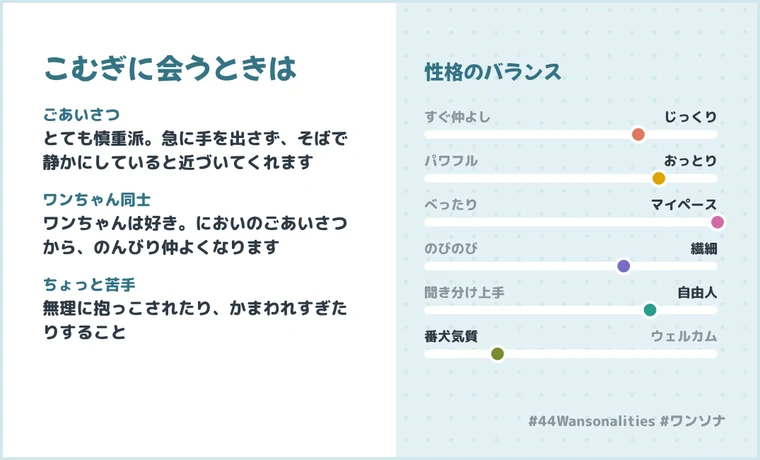
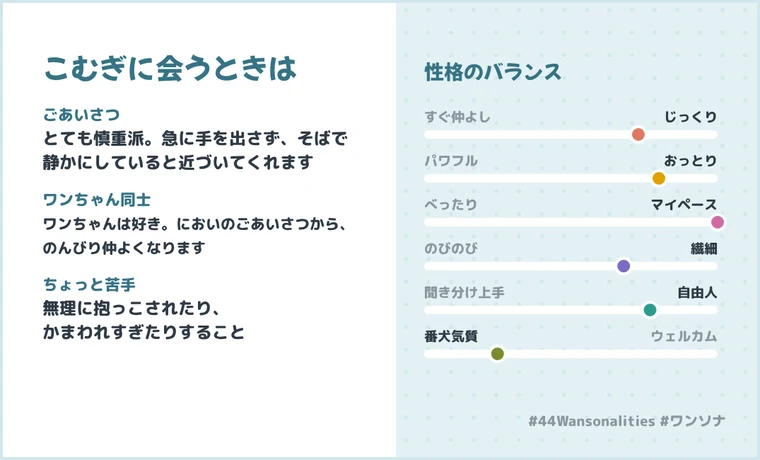
名刺・もしものときカードの画像の文を、言葉の切れ目で折り返す（入らないときは少し小さく）
Claude-Session: https://claude.ai/code/session_01VNhb2mPii8GMuwudjdkqsa

Changed region(s): [[0.0605, 0.4565, 0.4539, 0.5783], [0.0605, 0.6391, 0.4539, 0.7609]]

diff --git a/dog-shindan/index.html b/dog-shindan/index.html
@@ -3965,7 +3965,17 @@ function renderMeishi(o,url,raw){
 
 // ---------- フェス用：名刺のうら面・印刷用データ ----------
 // 名刺 91×55mm＝1075×650px（300dpi）。塗り足し3mm＝36px
-function wrapJa(ctx,t,w){var lines=[],cur="";for(var k=0;k<t.length;k++){var c=t[k];if(ctx.measureText(cur+c).width>w&&cur){if("、。」）".indexOf(c)>=0){cur+=c;continue}lines.push(cur);cur=c}else cur+=c}if(cur)lines.push(cur);return lines}
+// 画像の中の文を、言葉の切れ目（「、」「。」のあと、ひらがなの後に漢字・カタカナが来るところ）で折り返す。
+// max 行に入らないときは、文字を少しだけ小さくして入れる。それでも入らないときだけ、1文字ずつの折り返しにもどす
+function wrapChars(ctx,t,w){var lines=[],cur="";for(var k=0;k<t.length;k++){var c=t[k];if(ctx.measureText(cur+c).width>w&&cur){if("、。」）！？".indexOf(c)>=0){cur+=c;continue}lines.push(cur);cur=c}else cur+=c}if(cur)lines.push(cur);return lines}
+function wrapSeg(ctx,t,w){var H=/[ぁ-ゖ]/,K=/[一-龯々ァ-ヺ「]/,segs=[],cur="";
+  for(var i=0;i<t.length;i++){var c=t[i],p=t[i-1],pp=t[i-2];if(i>0&&cur&&H.test(p)&&K.test(c)&&((pp&&H.test(pp))||/[はがをにでともへのや]/.test(p))){segs.push(cur);cur=""}cur+=c;if(/[、。！？／]/.test(c)){segs.push(cur);cur=""}}
+  if(cur)segs.push(cur);var lines=[],ln="";
+  segs.forEach(function(g){if(ln&&ctx.measureText(ln+g).width>w){lines.push(ln);ln=""}if(ctx.measureText(g).width>w){var cl=wrapChars(ctx,ln+g,w);ln=cl.pop();lines=lines.concat(cl)}else ln+=g});
+  if(ln)lines.push(ln);return lines}
+function wrapJa(ctx,t,w,max){var lines=wrapSeg(ctx,t,w);if(!max||lines.length<=max)return lines;
+  var f0=ctx.font,m=f0.match(/(\d+)px/);if(m){var s0=+m[1];for(var sz=s0-1;sz>=Math.round(s0*.8);sz--){ctx.font=f0.replace(m[0],sz+"px");var l2=wrapSeg(ctx,t,w);if(l2.length<=max)return l2}ctx.font=f0}
+  return wrapChars(ctx,t,w)}
 function renderMeishiBack(o,raw){
   var W=1075,H=650,cv=document.createElement("canvas");cv.width=W;cv.height=H;var ctx=cv.getContext("2d");
   var B=o.main,F='"Mochiy Pop One","M PLUS Rounded 1c","Hiragino Maru Gothic ProN",sans-serif',R='"M PLUS Rounded 1c","Hiragino Maru Gothic ProN",sans-serif',dark="#2F3A45",mute="#5A6672",teal="#357385";
@@ -3978,7 +3988,7 @@ function renderMeishiBack(o,raw){
   ctx.textAlign="left";ctx.fillStyle=teal;fitText(ctx,o.name+"に会うときは",460,40,"400",F);ctx.fillText(o.name+"に会うときは",60,112);
   var yy=170;(o.guide||guideOf()).forEach(function(m){
     ctx.fillStyle=teal;ctx.font="800 22px "+R;ctx.fillText(m[0],60,yy);yy+=34;
-    ctx.fillStyle=dark;ctx.font="800 24px "+R;wrapJa(ctx,m[1],450).slice(0,2).forEach(function(l){ctx.fillText(l,60,yy);yy+=34});yy+=18});
+    ctx.fillStyle=dark;ctx.font="800 24px "+R;wrapJa(ctx,m[1],450,2).slice(0,2).forEach(function(l){ctx.fillText(l,60,yy);yy+=34});yy+=18});
   // 右：性格のバランス
   ctx.fillStyle=teal;ctx.font="400 28px "+F;ctx.fillText("性格のバランス",600,112);
   cardAx(o.pct||[]).forEach(function(i,k){var v=o.pct[i],y=172+k*62,x0=600,bw=W-x0-60;
@@ -4059,10 +4069,10 @@ function renderECData(d,art){var W=1075,H=650,cv=document.createElement("canvas"
   if(art)drawDogFree(ctx,art,d.i,190,580,330);
   ctx.textAlign="left";var X=380,y=150,VX=X+190,STEP=d.r&&d.r.length?44:50;
   function row(l,v){ctx.font="800 22px "+R;ctx.fillStyle="#7A8790";ctx.fillText(l,X,y);ctx.fillStyle=dark;
-    if(l==="メモ"){ctx.font="800 24px "+R;wrapJa(ctx,v.replace(/\n/g," "),W-VX-40).slice(0,2).forEach(function(t,k){ctx.fillText(t,VX,y+k*34)});y+=84;return}
+    if(l==="メモ"){ctx.font="800 24px "+R;wrapJa(ctx,v.replace(/\n/g," "),W-VX-40,2).slice(0,2).forEach(function(t,k){ctx.fillText(t,VX,y+k*34)});y+=84;return}
     fitText(ctx,v,W-VX-40,26,"800",R);ctx.fillText(v,VX,y);y+=STEP}
   if(d.r&&d.r.length){drawRibbon(ctx,W-110,22,52);ctx.fillStyle="#FFF6CC";var rh=50+(function(){ctx.font="800 22px "+R;return Math.min(1,wrapJa(ctx,d.r.join("／"),W-VX-50).length-1)})()*30;roundRect(ctx,X-14,y-32,W-X-30,rh,12);ctx.fill();ctx.fillStyle="#F2C21B";ctx.fillRect(X-14,y-32,8,rh);
-    ctx.font="800 22px "+R;ctx.fillStyle="#7A5A00";ctx.fillText("おねがい",X,y);ctx.fillStyle=dark;ctx.font="800 22px "+R;var rl=wrapJa(ctx,d.r.join("／"),W-VX-50);if(rl.length>2){rl=rl.slice(0,2);rl[1]=clipText(ctx,rl[1],W-VX-50)}rl.forEach(function(t,k){ctx.fillText(t,VX,y+k*30)});y+=STEP+4+(rl.length-1)*30}
+    ctx.font="800 22px "+R;ctx.fillStyle="#7A5A00";ctx.fillText("おねがい",X,y);ctx.fillStyle=dark;ctx.font="800 22px "+R;var rl=wrapJa(ctx,d.r.join("／"),W-VX-50,2);if(rl.length>2){rl=rl.slice(0,2);rl[1]=clipText(ctx,rl[1],W-VX-50)}rl.forEach(function(t,k){ctx.fillText(t,VX,y+k*30)});y+=STEP+4+(rl.length-1)*30}
   if(d.b)row("犬種",d.b);
   (d.v||[]).forEach(function(v,k){if(v&&EC_LB[k])row(EC_LB[k],String(v).slice(0,40))});
   ctx.strokeStyle="#E7B7B7";ctx.lineWidth=6;ctx.strokeRect(3,3,W-6,H-6);return cv.toDataURL("image/png")}
